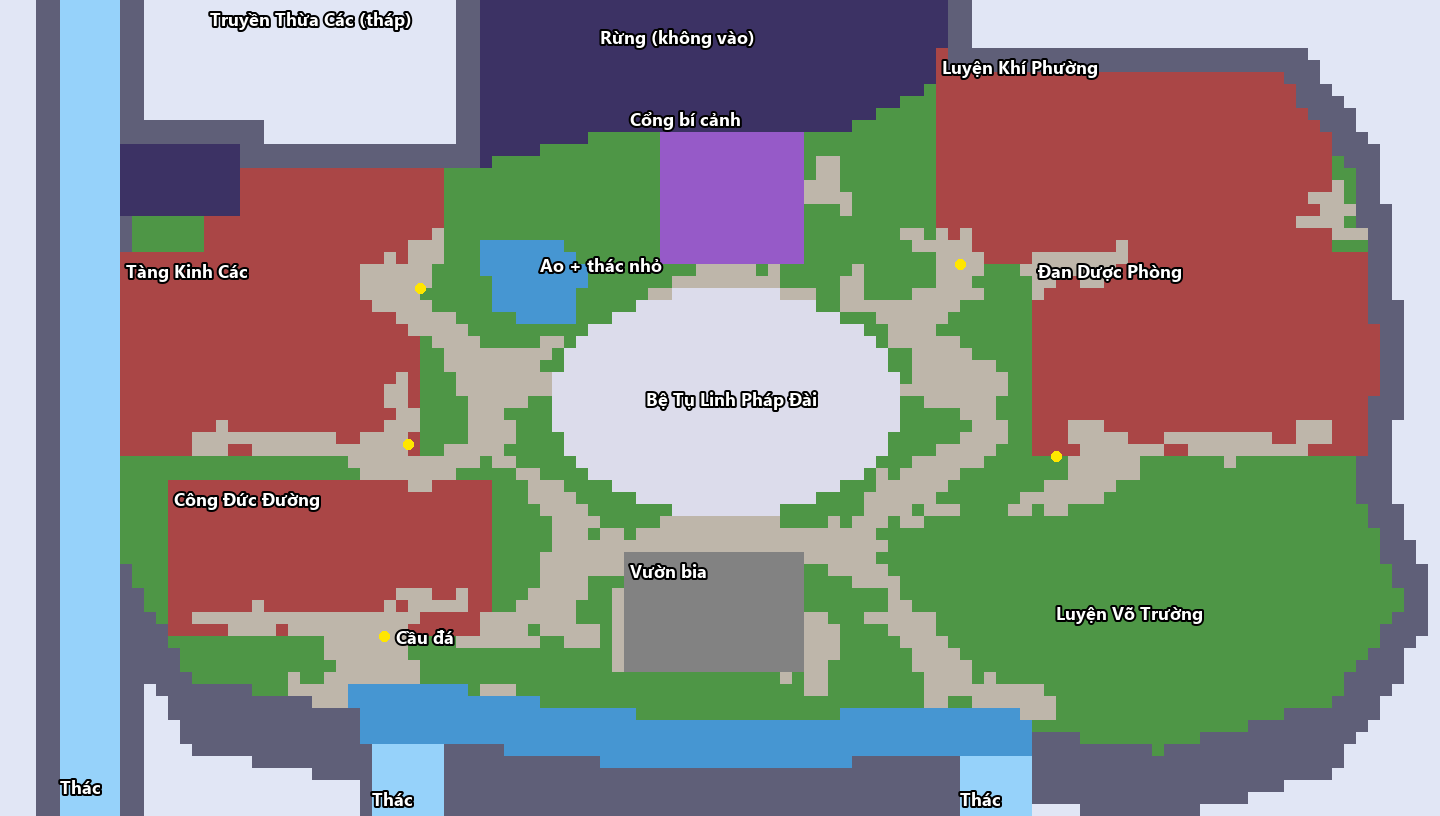
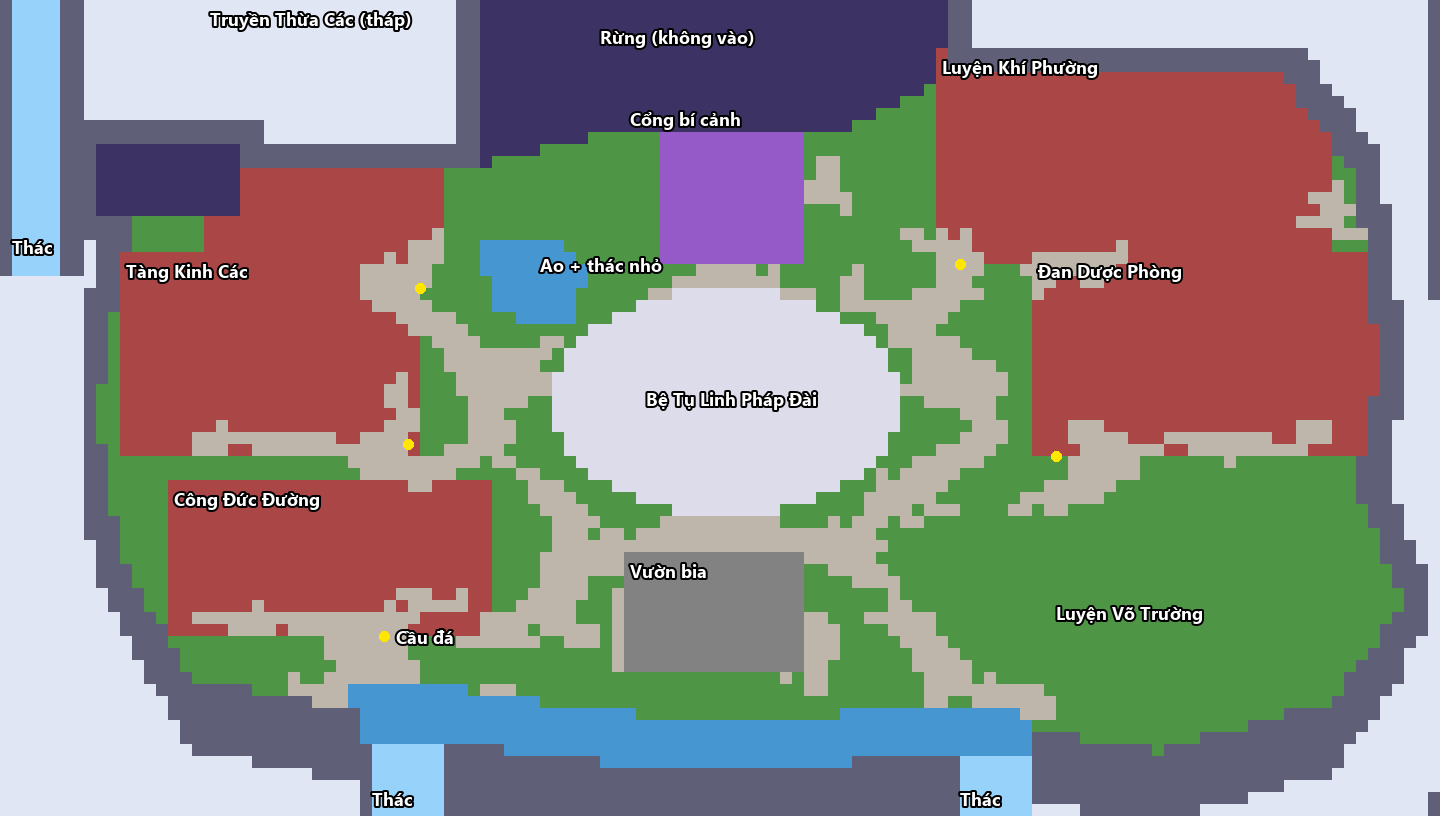
M8: thac tay ra mep ngoai, ngan lai, chan thac chim vao suong day

Changed region(s): [[0.0, 0.0, 0.125, 1.0], [0.9688, 0.0, 1.0, 0.3676], [0.9688, 0.9804, 1.0, 1.0]]

diff --git a/src/data/sect_bocuc.js b/src/data/sect_bocuc.js
@@ -1,3 +1,3 @@
 // SINH TỰ ĐỘNG bởi tools/sect_bo_cuc.py — bố cục sảnh theo concept ảnh 1 (lưới ô). Đừng sửa tay.
 // . cỏ, = đường đá, ~ nước, d sân đất, ^ vách núi, T rừng, B chỗ công trình, P bệ, G cổng, X mây, b vườn bia, W thác
-export const BOCUC = {"nx": 120, "ny": 68, "rows": ["XXX^^WWWWW^^XXXXXXXXXXXXXXXXXXXXXXXXXX^^TTTTTTTTTTTTTTTTTTTTTTTTTTTTTTTTTTTTTTT^^XXXXXXXXXXXXXXXXXXXXXXXXXXXXXXXXXXXXXXX", "XXX^^WWWWW^^XXXXXXXXXXXXXXXXXXXXXXXXXX^^TTTTTTTTTTTTTTTTTTTTTTTTTTTTTTTTTTTTTTT^^XXXXXXXXXXXXXXXXXXXXXXXXXXXXXXXXXXXXXXX", "XXX^^WWWWW^^XXXXXXXXXXXXXXXXXXXXXXXXXX^^TTTTTTTTTTTTTTTTTTTTTTTTTTTTTTTTTTTTTTT^^XXXXXXXXXXXXXXXXXXXXXXXXXXXXXXXXXXXXXXX", "XXX^^WWWWW^^XXXXXXXXXXXXXXXXXXXXXXXXXX^^TTTTTTTTTTTTTTTTTTTTTTTTTTTTTTTTTTTTTTT^^XXXXXXXXXXXXXXXXXXXXXXXXXXXXXXXXXXXXXXX", "XXX^^WWWWW^^XXXXXXXXXXXXXXXXXXXXXXXXXX^^TTTTTTTTTTTTTTTTTTTTTTTTTTTTTTTTTTTTTTB^^^^^^^^^^^^^^^^^^^^^^^^^^^^^^XXXXXXXXXXX", "XXX^^WWWWW^^XXXXXXXXXXXXXXXXXXXXXXXXXX^^TTTTTTTTTTTTTTTTTTTTTTTTTTTTTTTTTTTTTTB^^^^^^^^^^^^^^^^^^^^^^^^^^^^^^^XXXXXXXXXX", "XXX^^WWWWW^^XXXXXXXXXXXXXXXXXXXXXXXXXX^^TTTTTTTTTTTTTTTTTTTTTTTTTTTTTTTTTTTTTTBBBBBBBBBBBBBBBBBBBBBBBBBBBBB^^^XXXXXXXXXX", "XXX^^WWWWW^^XXXXXXXXXXXXXXXXXXXXXXXXXX^^TTTTTTTTTTTTTTTTTTTTTTTTTTTTTTTTTTTTT.BBBBBBBBBBBBBBBBBBBBBBBBBBBBBB^^^XXXXXXXXX", "XXX^^WWWWW^^XXXXXXXXXXXXXXXXXXXXXXXXXX^^TTTTTTTTTTTTTTTTTTTTTTTTTTTTTTTTTTT...BBBBBBBBBBBBBBBBBBBBBBBBBBBBBB^^^^XXXXXXXX", "XXX^^WWWWW^^XXXXXXXXXXXXXXXXXXXXXXXXXX^^TTTTTTTTTTTTTTTTTTTTTTTTTTTTTTTTT.....BBBBBBBBBBBBBBBBBBBBBBBBBBBBBBB^^^^XXXXXXX", "XXX^^WWWWW^^^^^^^^^^^^XXXXXXXXXXXXXXXX^^TTTTTTTTTTTTTTTTTTTTTTTTTTTTTTT.......BBBBBBBBBBBBBBBBBBBBBBBBBBBBBBBB^^^XXXXXXX", "XXX^^WWWWW^^^^^^^^^^^^XXXXXXXXXXXXXXXX^^TTTTTTTTT......GGGGGGGGGGGG...........BBBBBBBBBBBBBBBBBBBBBBBBBBBBBBBBB^^^XXXXXX", "XXX^^WWWWWTTTTTTTTTT^^^^^^^^^^^^^^^^^^^^TTTTT..........GGGGGGGGGGGG...........BBBBBBBBBBBBBBBBBBBBBBBBBBBBBBBBB^^^^XXXXX", "XXX^^WWWWWTTTTTTTTTT^^^^^^^^^^^^^^^^^^^^T..............GGGGGGGGGGGG.==........BBBBBBBBBBBBBBBBBBBBBBBBBBBBBBBBB.^^^XXXXX", "XXX^^WWWWWTTTTTTTTTTBBBBBBBBBBBBBBBBB..................GGGGGGGGGGGG.==........BBBBBBBBBBBBBBBBBBBBBBBBBBBBBBBBB..^^XXXXX", "XXX^^WWWWWTTTTTTTTTTBBBBBBBBBBBBBBBBB..................GGGGGGGGGGGG===........BBBBBBBBBBBBBBBBBBBBBBBBBBBBBBBBB=.^^XXXXX", "XXX^^WWWWWTTTTTTTTTTBBBBBBBBBBBBBBBBB..................GGGGGGGGGGGG====.......BBBBBBBBBBBBBBBBBBBBBBBBBBBBBBB===.^^XXXXX", "XXX^^WWWWWTTTTTTTTTTBBBBBBBBBBBBBBBBB..................GGGGGGGGGGGG...=.......BBBBBBBBBBBBBBBBBBBBBBBBBBBBBBBB===^^^XXXX", "XXX^^WWWWW^......BBBBBBBBBBBBBBBBBBBB..................GGGGGGGGGGGG...........BBBBBBBBBBBBBBBBBBBBBBBBBBBBBB====.^^^XXXX", "XXX^^WWWWW^......BBBBBBBBBBBBBBBBBBB=..................GGGGGGGGGGGG........==.=B=BBBBBBBBBBBBBBBBBBBBBBBBBBBBBB===^^XXXX", "XXX^^WWWWW^......BBBBBBBBBBBBBBBBB===...~~~~~~~........GGGGGGGGGGGG.........=====BBBBBBBBBBBB=BBBBBBBBBBBBBBBBB...^^XXXX", "XXX^^WWWWWBBBBBBBBBBBBBBBBBBBBBB=B===...~~~~~~~~.......GGGGGGGGGGGG...........====BBBB========BBBBBBBBBBBBBBBBBBBB^^XXXX", "XXX^^WWWWWBBBBBBBBBBBBBBBBBBBB======....~~~~~~~~~.........=====.=......=......====...========BBBBBBBBBBBBBBBBBBBBB^^XXXX", "XXX^^WWWWWBBBBBBBBBBBBBBBBBBBB======.....~~~~~~~~.......=========.....==......===.....==BB==BBBBBBBBBBBBBBBBBBBBBB^^XXXX", "XXX^^WWWWWBBBBBBBBBBBBBBBBBBBB=====......~~~~~~~......==PPPPPPPPP===..==....======....=BBBBBBBBBBBBBBBBBBBBBBBBBBB^^XXXX", "XXX^^WWWWWBBBBBBBBBBBBBBBBBBBBB=====.....~~~~~~~.....PPPPPPPPPPPPPPP..==========......BBBBBBBBBBBBBBBBBBBBBBBBBBBB^^^XXX", "XXX^^WWWWWBBBBBBBBBBBBBBBBBBBBBBB=====.....~~~~~...PPPPPPPPPPPPPPPPPPP...======.......BBBBBBBBBBBBBBBBBBBBBBBBBBBB^^^XXX", "XXX^^WWWWWBBBBBBBBBBBBBBBBBBBBBBBB=====..........PPPPPPPPPPPPPPPPPPPPPPP..====........BBBBBBBBBBBBBBBBBBBBBBBBBBBBB^^XXX", "XXX^^WWWWWBBBBBBBBBBBBBBBBBBBBBBBBB.====.....==.PPPPPPPPPPPPPPPPPPPPPPPPP.======......BBBBBBBBBBBBBBBBBBBBBBBBBBBBB^^XXX", "XXX^^WWWWWBBBBBBBBBBBBBBBBBBBBBBBBB..=========.PPPPPPPPPPPPPPPPPPPPPPPPPPP..=====.....BBBBBBBBBBBBBBBBBBBBBBBBBBBBB^^XXX", "XXX^^WWWWWBBBBBBBBBBBBBBBBBBBBBBBBB..========..PPPPPPPPPPPPPPPPPPPPPPPPPPP..=======...BBBBBBBBBBBBBBBBBBBBBBBBBBBBB^^XXX", "XXX^^WWWWWBBBBBBBBBBBBBBBBBBBBBBB=B...========PPPPPPPPPPPPPPPPPPPPPPPPPPPPP.========..BBBBBBBBBBBBBBBBBBBBBBBBBBBBB^^XXX", "XXX^^WWWWWBBBBBBBBBBBBBBBBBBBBBB==B...========PPPPPPPPPPPPPPPPPPPPPPPPPPPPP=========..BBBBBBBBBBBBBBBBBBBBBBBBBBBBB^^XXX", "XXX^^WWWWWBBBBBBBBBBBBBBBBBBBBBB==B....=====..PPPPPPPPPPPPPPPPPPPPPPPPPPPPP..======...BBBBBBBBBBBBBBBBBBBBBBBBBBBB^^^XXX", "XXX^^WWWWWBBBBBBBBBBBBBBBBBBBBBBB==....===....PPPPPPPPPPPPPPPPPPPPPPPPPPPPP.....===...BBBBBBBBBBBBBBBBBBBBBBBBBBBB^^^XXX", "XXX^^WWWWWBBBBBBBB=BBBBBBBBBBBBB===....====...PPPPPPPPPPPPPPPPPPPPPPPPPPPPP......===..BBB===BBBBBBBBBBBBBBBB===BBB^^XXXX", "XXX^^WWWWWBBBBBB============BB====B....====....PPPPPPPPPPPPPPPPPPPPPPPPPPP......====..BBB=====BBB=========BB===BBB^^XXXX", "XXX^^WWWWWBBBBBB===BB=============B..=====.....PPPPPPPPPPPPPPPPPPPPPPPPPPP....=====...BBBB=======BB==========BBBBB^^XXXX", "XXX^^WWWWW...................===========.==.....PPPPPPPPPPPPPPPPPPPPPPPPP...======.......======.......=..........^^^XXXX", "XXX^^WWWWW....................========.....==....PPPPPPPPPPPPPPPPPPPPPPP.=.=====.........======..................^^^XXXX", "XXX^^WWWWW....BBBBBBBBBBBBBBBBBBBB==BBBBB...===....PPPPPPPPPPPPPPPPPPP...======........======....................^^^XXXX", "XXX^^WWWWW....BBBBBBBBBBBBBBBBBBBBBBBBBBB...====.....PPPPPPPPPPPPPPP....======.......=======.....................^^^XXXX", "XXX^^WWWWW....BBBBBBBBBBBBBBBBBBBBBBBBBBB....====.......PPPPPPPPP.......====.===....==.==.........................^^^XXX", "XXX^^WWWWW....BBBBBBBBBBBBBBBBBBBBBBBBBBB.....====.....==========....=.===.==.....................................^^^XXX", "XXX^^WWWWW....BBBBBBBBBBBBBBBBBBBBBBBBBBB.....===.==.====================..........................................^^XXX", "XXX^^WWWWW....BBBBBBBBBBBBBBBBBBBBBBBBBBB.....============================.........................................^^^XX", "XXX^^WWWWW....BBBBBBBBBBBBBBBBBBBBBBBBBBB....=======bbbbbbbbbbbbbbb======..........................................^^^XX", "XXX^^WWWWW^...BBBBBBBBBBBBBBBBBBBBBBBBBBB....=======bbbbbbbbbbbbbbb..=====..........................................^^^X", "XXX^^WWWWW^...BBBBBBBBBBBBBBBBBBBBBBBBBBB....====...bbbbbbbbbbbbbbb....====.........................................^^^X", "XXX^^WWWWW^^..BBBBBBBBBBBBBBBBBBB===BB=BB...=====..=bbbbbbbbbbbbbbb.......=..........................................^^X", "XXX^^WWWWW^^..BBBBBBB=BBBBBBBBBB=B=====BB..=====...=bbbbbbbbbbbbbbb.......==.........................................^^X", "XXX^^WWWWW^^^.BB===================BBBBB========...=bbbbbbbbbbbbbbb==...======......................................^^^X", "XXX^^WWWWW^^^^BBBBB====B==========BBBBBB====.=====.=bbbbbbbbbbbbbbb===....====.....................................^^^^X", "XXX^^WWWWW^^^^.............=======....=======..===.=bbbbbbbbbbbbbbb===.....====....................................^^^XX", "XXX^^WWWWW^^^^^............=======.................=bbbbbbbbbbbbbbb===......====..................................^^^XXX", "XXX^^WWWWW^^^^^.............=======................=bbbbbbbbbbbbbbb==.......=====................................^^^^XXX", "XXX^^WWWWW^^^^^^........=..========..............................=.==........====.=.............................^^^^^XXX", "XXX^^WWWWW^^X^^^^^^^^...=====~~~~~~~~~~.===........................==........==========.........................^^^^XXXX", "XXX^^WWWWW^^XX^^^^^^^^^^^^===~~~~~~~~~~~~~~~~................................==..=======.......................^^^^XXXXX", "XXX^^WWWWW^^XX^^^^^^^^^^^^^^^^~~~~~~~~~~~~~~~~~~~~~~~.................~~~~~~~~~~~~~~~===...................^^^^^^^^XXXXX", "XXX^^WWWWW^^XXX^^^^^^^^^^^^^^^~~~~~~~~~~~~~~~~~~~~~~~~~~~~~~~~~~~~~~~~~~~~~~~~~~~~~~~~..................^^^^^^^^^^XXXXXX", "XXX^^WWWWW^^XXX^^^^^^^^^^^^^^^~~~~~~~~~~~~~~~~~~~~~~~~~~~~~~~~~~~~~~~~~~~~~~~~~~~~~~~~^^^^..........^^^^^^^^^^^^^XXXXXXX", "XXX^^WWWWW^^XXXX^^^^^^^^^^^^^^^WWWWWW^^^^^~~~~~~~~~~~~~~~~~~~~~~~~~~~~~~~~~~~~~~~~~~~~^^^^^^^^^^.^^^^^^^^^^^^^^^XXXXXXXX", "XXX^^WWWWW^^XXXXXXXXX^^^^^^^^^^WWWWWW^^^^^^^^^^^^^~~~~~~~~~~~~~~~~~~~~~^^^^^^^^^WWWWWW^^^^^^^^^^^^^^^^^^^^^^^^^^XXXXXXXX", "XXX^^WWWWW^^XXXXXXXXXXXXXX^^^^^WWWWWW^^^^^^^^^^^^^^^^^^^^^^^^^^^^^^^^^^^^^^^^^^^WWWWWW^^^^^^^^^^^^^^^^^^^^^^^^^XXXXXXXXX", "XXX^^WWWWW^^XXXXXXXXXXXXXXXXXX^WWWWWW^^^^^^^^^^^^^^^^^^^^^^^^^^^^^^^^^^^^^^^^^^^WWWWWW^^^^^^^^^^^^^^^^^^^^^XXXXXXXXXXXXX", "XXX^^WWWWW^^XXXXXXXXXXXXXXXXXX^WWWWWW^^^^^^^^^^^^^^^^^^^^^^^^^^^^^^^^^^^^^^^^^^^WWWWWW^^^^^^^^^^^^^^^^^^XXXXXXXXXXXXXXXX", "XXX^^WWWWW^^XXXXXXXXXXXXXXXXXX^WWWWWW^^^^^^^^^^^^^^^^^^^^^^^^^^^^^^^^^^^^^^^^^^^WWWWWWXXXX^^^^^^^^^^XXXXXXXXXXXXXXXXXXXX"], "buildings": {"truyen_thua": {"box": [17, 0, 36, 21], "foot": [35, 24], "name": "Truyền Thừa Các (tháp)"}, "tang_kinh": {"box": [10, 21, 34, 37], "foot": [34, 37], "name": "Tàng Kinh Các"}, "cong_duc": {"box": [14, 40, 40, 52], "foot": [32, 53], "name": "Công Đức Đường"}, "luyen_khi": {"box": [78, 4, 110, 21], "foot": [80, 22], "name": "Luyện Khí Phường"}, "dan_duoc": {"box": [86, 21, 114, 37], "foot": [88, 38], "name": "Đan Dược Phòng"}}, "plaza": {"c": [60.5, 33], "rx": 14, "ry": 9}, "gate": {"x": [55, 66], "y": [11, 21]}, "tf": {"c_old": [60.5, 33], "c": [60.5, 33], "sx": 1, "sy": 1}, "pen": {"x": 82, "y": 41, "w": 26, "h": 16, "gate": [83, 86], "door": [84.5, 40.2]}};
+export const BOCUC = {"nx": 120, "ny": 68, "rows": ["^WWWW^^XXXXXXXXXXXXXXXXXXXXXXXXXXXXXXX^^TTTTTTTTTTTTTTTTTTTTTTTTTTTTTTTTTTTTTTT^^XXXXXXXXXXXXXXXXXXXXXXXXXXXXXXXXXXXXXX^", "^WWWW^^XXXXXXXXXXXXXXXXXXXXXXXXXXXXXXX^^TTTTTTTTTTTTTTTTTTTTTTTTTTTTTTTTTTTTTTT^^XXXXXXXXXXXXXXXXXXXXXXXXXXXXXXXXXXXXXX^", "^WWWW^^XXXXXXXXXXXXXXXXXXXXXXXXXXXXXXX^^TTTTTTTTTTTTTTTTTTTTTTTTTTTTTTTTTTTTTTT^^XXXXXXXXXXXXXXXXXXXXXXXXXXXXXXXXXXXXXX^", "^WWWW^^XXXXXXXXXXXXXXXXXXXXXXXXXXXXXXX^^TTTTTTTTTTTTTTTTTTTTTTTTTTTTTTTTTTTTTTT^^XXXXXXXXXXXXXXXXXXXXXXXXXXXXXXXXXXXXXX^", "^WWWW^^XXXXXXXXXXXXXXXXXXXXXXXXXXXXXXX^^TTTTTTTTTTTTTTTTTTTTTTTTTTTTTTTTTTTTTTB^^^^^^^^^^^^^^^^^^^^^^^^^^^^^^XXXXXXXXXX^", "^WWWW^^XXXXXXXXXXXXXXXXXXXXXXXXXXXXXXX^^TTTTTTTTTTTTTTTTTTTTTTTTTTTTTTTTTTTTTTB^^^^^^^^^^^^^^^^^^^^^^^^^^^^^^^XXXXXXXXX^", "^WWWW^^XXXXXXXXXXXXXXXXXXXXXXXXXXXXXXX^^TTTTTTTTTTTTTTTTTTTTTTTTTTTTTTTTTTTTTTBBBBBBBBBBBBBBBBBBBBBBBBBBBBB^^^XXXXXXXXX^", "^WWWW^^XXXXXXXXXXXXXXXXXXXXXXXXXXXXXXX^^TTTTTTTTTTTTTTTTTTTTTTTTTTTTTTTTTTTTT.BBBBBBBBBBBBBBBBBBBBBBBBBBBBBB^^^XXXXXXXX^", "^WWWW^^XXXXXXXXXXXXXXXXXXXXXXXXXXXXXXX^^TTTTTTTTTTTTTTTTTTTTTTTTTTTTTTTTTTT...BBBBBBBBBBBBBBBBBBBBBBBBBBBBBB^^^^XXXXXXX^", "^WWWW^^XXXXXXXXXXXXXXXXXXXXXXXXXXXXXXX^^TTTTTTTTTTTTTTTTTTTTTTTTTTTTTTTTT.....BBBBBBBBBBBBBBBBBBBBBBBBBBBBBBB^^^^XXXXXX^", "^WWWW^^^^^^^^^^^^^^^^^XXXXXXXXXXXXXXXX^^TTTTTTTTTTTTTTTTTTTTTTTTTTTTTTT.......BBBBBBBBBBBBBBBBBBBBBBBBBBBBBBBB^^^XXXXXX^", "^WWWW^^^^^^^^^^^^^^^^^XXXXXXXXXXXXXXXX^^TTTTTTTTT......GGGGGGGGGGGG...........BBBBBBBBBBBBBBBBBBBBBBBBBBBBBBBBB^^^XXXXX^", "^WWWW^^^TTTTTTTTTTTT^^^^^^^^^^^^^^^^^^^^TTTTT..........GGGGGGGGGGGG...........BBBBBBBBBBBBBBBBBBBBBBBBBBBBBBBBB^^^^XXXX^", "^WWWW^^^TTTTTTTTTTTT^^^^^^^^^^^^^^^^^^^^T..............GGGGGGGGGGGG.==........BBBBBBBBBBBBBBBBBBBBBBBBBBBBBBBBB.^^^XXXX^", "^WWWW^^^TTTTTTTTTTTTBBBBBBBBBBBBBBBBB..................GGGGGGGGGGGG.==........BBBBBBBBBBBBBBBBBBBBBBBBBBBBBBBBB..^^XXXX^", "^WWWW^^^TTTTTTTTTTTTBBBBBBBBBBBBBBBBB..................GGGGGGGGGGGG===........BBBBBBBBBBBBBBBBBBBBBBBBBBBBBBBBB=.^^XXXX^", "^WWWW^^^TTTTTTTTTTTTBBBBBBBBBBBBBBBBB..................GGGGGGGGGGGG====.......BBBBBBBBBBBBBBBBBBBBBBBBBBBBBBB===.^^XXXX^", "^WWWW^^^TTTTTTTTTTTTBBBBBBBBBBBBBBBBB..................GGGGGGGGGGGG...=.......BBBBBBBBBBBBBBBBBBBBBBBBBBBBBBBB===^^^XXX^", "^WWWW^^^^^^......BBBBBBBBBBBBBBBBBBBB..................GGGGGGGGGGGG...........BBBBBBBBBBBBBBBBBBBBBBBBBBBBBB====.^^^XXX^", "^WWWW^^^^^^......BBBBBBBBBBBBBBBBBBB=..................GGGGGGGGGGGG........==.=B=BBBBBBBBBBBBBBBBBBBBBBBBBBBBBB===^^XXX^", "^WWWW^^X^^^......BBBBBBBBBBBBBBBBB===...~~~~~~~........GGGGGGGGGGGG.........=====BBBBBBBBBBBB=BBBBBBBBBBBBBBBBB...^^XXX^", "^WWWW^^X^^BBBBBBBBBBBBBBBBBBBBBB=B===...~~~~~~~~.......GGGGGGGGGGGG...........====BBBB========BBBBBBBBBBBBBBBBBBBB^^XXX^", "^WWWW^^X^^BBBBBBBBBBBBBBBBBBBB======....~~~~~~~~~.........=====.=......=......====...========BBBBBBBBBBBBBBBBBBBBB^^XXX^", "XXXXXXXX^^BBBBBBBBBBBBBBBBBBBB======.....~~~~~~~~.......=========.....==......===.....==BB==BBBBBBBBBBBBBBBBBBBBBB^^XXX^", "XXXXXXX^^^BBBBBBBBBBBBBBBBBBBB=====......~~~~~~~......==PPPPPPPPP===..==....======....=BBBBBBBBBBBBBBBBBBBBBBBBBBB^^XXX^", "XXXXXXX^^^BBBBBBBBBBBBBBBBBBBBB=====.....~~~~~~~.....PPPPPPPPPPPPPPP..==========......BBBBBBBBBBBBBBBBBBBBBBBBBBBB^^^XXX", "XXXXXXX^^.BBBBBBBBBBBBBBBBBBBBBBB=====.....~~~~~...PPPPPPPPPPPPPPPPPPP...======.......BBBBBBBBBBBBBBBBBBBBBBBBBBBB^^^XXX", "XXXXXXX^^.BBBBBBBBBBBBBBBBBBBBBBBB=====..........PPPPPPPPPPPPPPPPPPPPPPP..====........BBBBBBBBBBBBBBBBBBBBBBBBBBBBB^^XXX", "XXXXXXX^^.BBBBBBBBBBBBBBBBBBBBBBBBB.====.....==.PPPPPPPPPPPPPPPPPPPPPPPPP.======......BBBBBBBBBBBBBBBBBBBBBBBBBBBBB^^XXX", "XXXXXXX^^.BBBBBBBBBBBBBBBBBBBBBBBBB..=========.PPPPPPPPPPPPPPPPPPPPPPPPPPP..=====.....BBBBBBBBBBBBBBBBBBBBBBBBBBBBB^^XXX", "XXXXXXX^^.BBBBBBBBBBBBBBBBBBBBBBBBB..========..PPPPPPPPPPPPPPPPPPPPPPPPPPP..=======...BBBBBBBBBBBBBBBBBBBBBBBBBBBBB^^XXX", "XXXXXXX^^.BBBBBBBBBBBBBBBBBBBBBBB=B...========PPPPPPPPPPPPPPPPPPPPPPPPPPPPP.========..BBBBBBBBBBBBBBBBBBBBBBBBBBBBB^^XXX", "XXXXXXX^..BBBBBBBBBBBBBBBBBBBBBB==B...========PPPPPPPPPPPPPPPPPPPPPPPPPPPPP=========..BBBBBBBBBBBBBBBBBBBBBBBBBBBBB^^XXX", "XXXXXXX^..BBBBBBBBBBBBBBBBBBBBBB==B....=====..PPPPPPPPPPPPPPPPPPPPPPPPPPPPP..======...BBBBBBBBBBBBBBBBBBBBBBBBBBBB^^^XXX", "XXXXXXX^..BBBBBBBBBBBBBBBBBBBBBBB==....===....PPPPPPPPPPPPPPPPPPPPPPPPPPPPP.....===...BBBBBBBBBBBBBBBBBBBBBBBBBBBB^^^XXX", "XXXXXXX^..BBBBBBBB=BBBBBBBBBBBBB===....====...PPPPPPPPPPPPPPPPPPPPPPPPPPPPP......===..BBB===BBBBBBBBBBBBBBBB===BBB^^XXXX", "XXXXXXX^..BBBBBB============BB====B....====....PPPPPPPPPPPPPPPPPPPPPPPPPPP......====..BBB=====BBB=========BB===BBB^^XXXX", "XXXXXXX^^.BBBBBB===BB=============B..=====.....PPPPPPPPPPPPPPPPPPPPPPPPPPP....=====...BBBB=======BB==========BBBBB^^XXXX", "XXXXXXX^^....................===========.==.....PPPPPPPPPPPPPPPPPPPPPPPPP...======.......======.......=..........^^^XXXX", "XXXXXXX^^.....................========.....==....PPPPPPPPPPPPPPPPPPPPPPP.=.=====.........======..................^^^XXXX", "XXXXXXX^^.....BBBBBBBBBBBBBBBBBBBB==BBBBB...===....PPPPPPPPPPPPPPPPPPP...======........======....................^^^XXXX", "XXXXXXX^^.....BBBBBBBBBBBBBBBBBBBBBBBBBBB...====.....PPPPPPPPPPPPPPP....======.......=======.....................^^^XXXX", "XXXXXXX^^.....BBBBBBBBBBBBBBBBBBBBBBBBBBB....====.......PPPPPPPPP.......====.===....==.==.........................^^^XXX", "XXXXXXX^^^....BBBBBBBBBBBBBBBBBBBBBBBBBBB.....====.....==========....=.===.==.....................................^^^XXX", "XXXXXXX^^^....BBBBBBBBBBBBBBBBBBBBBBBBBBB.....===.==.====================..........................................^^XXX", "XXXXXXXX^^....BBBBBBBBBBBBBBBBBBBBBBBBBBB.....============================.........................................^^^XX", "XXXXXXXX^^....BBBBBBBBBBBBBBBBBBBBBBBBBBB....=======bbbbbbbbbbbbbbb======..........................................^^^XX", "XXXXXXXX^^^...BBBBBBBBBBBBBBBBBBBBBBBBBBB....=======bbbbbbbbbbbbbbb..=====..........................................^^^X", "XXXXXXXX^^^...BBBBBBBBBBBBBBBBBBBBBBBBBBB....====...bbbbbbbbbbbbbbb....====.........................................^^^X", "XXXXXXXXX^^^..BBBBBBBBBBBBBBBBBBB===BB=BB...=====..=bbbbbbbbbbbbbbb.......=..........................................^^X", "XXXXXXXXX^^^..BBBBBBB=BBBBBBBBBB=B=====BB..=====...=bbbbbbbbbbbbbbb.......==.........................................^^X", "XXXXXXXXXX^^^.BB===================BBBBB========...=bbbbbbbbbbbbbbb==...======......................................^^^X", "XXXXXXXXXX^^^^BBBBB====B==========BBBBBB====.=====.=bbbbbbbbbbbbbbb===....====.....................................^^^^X", "XXXXXXXXXXX^^^.............=======....=======..===.=bbbbbbbbbbbbbbb===.....====....................................^^^XX", "XXXXXXXXXXX^^^^............=======.................=bbbbbbbbbbbbbbb===......====..................................^^^XXX", "XXXXXXXXXXXX^^^.............=======................=bbbbbbbbbbbbbbb==.......=====................................^^^^XXX", "XXXXXXXXXXXX^^^^........=..========..............................=.==........====.=.............................^^^^^XXX", "XXXXXXXXXXXXX^^^^^^^^...=====~~~~~~~~~~.===........................==........==========.........................^^^^XXXX", "XXXXXXXXXXXXXX^^^^^^^^^^^^===~~~~~~~~~~~~~~~~................................==..=======.......................^^^^XXXXX", "XXXXXXXXXXXXXX^^^^^^^^^^^^^^^^~~~~~~~~~~~~~~~~~~~~~~~.................~~~~~~~~~~~~~~~===...................^^^^^^^^XXXXX", "XXXXXXXXXXXXXXX^^^^^^^^^^^^^^^~~~~~~~~~~~~~~~~~~~~~~~~~~~~~~~~~~~~~~~~~~~~~~~~~~~~~~~~..................^^^^^^^^^^XXXXXX", "XXXXXXXXXXXXXXX^^^^^^^^^^^^^^^~~~~~~~~~~~~~~~~~~~~~~~~~~~~~~~~~~~~~~~~~~~~~~~~~~~~~~~~^^^^..........^^^^^^^^^^^^^XXXXXXX", "XXXXXXXXXXXXXXXX^^^^^^^^^^^^^^^WWWWWW^^^^^~~~~~~~~~~~~~~~~~~~~~~~~~~~~~~~~~~~~~~~~~~~~^^^^^^^^^^.^^^^^^^^^^^^^^^XXXXXXXX", "XXXXXXXXXXXXXXXXXXXXX^^^^^^^^^^WWWWWW^^^^^^^^^^^^^~~~~~~~~~~~~~~~~~~~~~^^^^^^^^^WWWWWW^^^^^^^^^^^^^^^^^^^^^^^^^^XXXXXXXX", "XXXXXXXXXXXXXXXXXXXXXXXXXX^^^^^WWWWWW^^^^^^^^^^^^^^^^^^^^^^^^^^^^^^^^^^^^^^^^^^^WWWWWW^^^^^^^^^^^^^^^^^^^^^^^^^XXXXXXXXX", "XXXXXXXXXXXXXXXXXXXXXXXXXXXXXX^WWWWWW^^^^^^^^^^^^^^^^^^^^^^^^^^^^^^^^^^^^^^^^^^^WWWWWW^^^^^^^^^^^^^^^^^^^^^XXXXXXXXXXXXX", "XXXXXXXXXXXXXXXXXXXXXXXXXXXXXX^WWWWWW^^^^^^^^^^^^^^^^^^^^^^^^^^^^^^^^^^^^^^^^^^^WWWWWW^^^^^^^^^^^^^^^^^^XXXXXXXXXXXXXXX^", "XXXXXXXXXXXXXXXXXXXXXXXXXXXXXX^WWWWWW^^^^^^^^^^^^^^^^^^^^^^^^^^^^^^^^^^^^^^^^^^^WWWWWWXXXX^^^^^^^^^^XXXXXXXXXXXXXXXXXXX^"], "buildings": {"truyen_thua": {"box": [17, 0, 36, 21], "foot": [35, 24], "name": "Truyền Thừa Các (tháp)"}, "tang_kinh": {"box": [10, 21, 34, 37], "foot": [34, 37], "name": "Tàng Kinh Các"}, "cong_duc": {"box": [14, 40, 40, 52], "foot": [32, 53], "name": "Công Đức Đường"}, "luyen_khi": {"box": [78, 4, 110, 21], "foot": [80, 22], "name": "Luyện Khí Phường"}, "dan_duoc": {"box": [86, 21, 114, 37], "foot": [88, 38], "name": "Đan Dược Phòng"}}, "plaza": {"c": [60.5, 33], "rx": 14, "ry": 9}, "gate": {"x": [55, 66], "y": [11, 21]}, "tf": {"c_old": [60.5, 33], "c": [60.5, 33], "sx": 1, "sy": 1}, "pen": {"x": 82, "y": 41, "w": 26, "h": 16, "gate": [83, 86], "door": [84.5, 40.2]}};

diff --git a/src/render/render.js b/src/render/render.js
@@ -289,6 +289,29 @@ function drawFogFx(ctx, map, camX, camY, time) {
   g.drawImage(_fogM, tx0 * T - camX, ty0 * T - camY, tw * T, th * T);   // nội suy song tuyến: mép mờ dần ~1 ô
   g.globalCompositeOperation = 'source-over';
   ctx.drawImage(_fogC, camX, camY);
+  drawFallMist(ctx, map, camX, camY, time, img);
+}
+// (17/11) thác trời (chân thác lơ lửng trên biển mây): chân thác + vách tan dần vào một đụn sương dày, phập phồng -> như thác đổ mãi xuống dưới mây
+function drawFallMist(ctx, map, camX, camY, time, img) {
+  const tx0 = Math.floor(camX / T) - 6, ty0 = Math.floor(camY / T) - 3, tx1 = tx0 + Math.ceil(W / T) + 12, ty1 = ty0 + Math.ceil(H / T) + 6;
+  const sm = ctx.imageSmoothingEnabled; ctx.imageSmoothingEnabled = true;
+  for (let ty = ty0; ty <= ty1; ty++) for (let tx = tx0; tx <= tx1; tx++) {
+    if (map.tileAt(tx, ty) !== FALL || map.tileAt(tx, ty + 1) !== CLOUD || map.tileAt(tx - 1, ty) === FALL) continue;   // ô trái nhất của chân thác
+    let n = 1; while (map.tileAt(tx + n, ty) === FALL) n++;
+    const cx = tx * T + n * T / 2, yb = ty * T + T, wd = (n + 4) * T;
+    // nền sương dày, mép tan mềm (ảnh elip gradient): che hẳn chân thác + chân vách hai bên
+    for (const [dy, sx, sy, a] of [[-6, 1.25, 1.5, 0.95], [-20, 1.0, 1.2, 0.85], [6, 1.5, 1.3, 0.9]]) {
+      const w = wd * sx, h = 48 * sy; ctx.globalAlpha = a; ctx.drawImage(img, cx - w / 2, yb + dy - h / 2, w, h);
+    }
+    // đụn sương cuộn chậm phía trên
+    for (let k = 0; k < 5; k++) {
+      const h = hash(tx, k, 190), ph = time * (0.35 + h * 0.3) + h * 6.28, w = 60 + h * 40 + Math.sin(ph) * 8, hh = w * 0.45;
+      const x = cx + (k - 2) * (wd / 6) + Math.sin(ph * 0.7) * 6, y = yb - 14 - (k & 1) * 10 + Math.sin(ph) * 3;
+      ctx.globalAlpha = 0.5 + 0.3 * (0.5 + 0.5 * Math.sin(ph * 1.3)); ctx.drawImage(img, x - w / 2, y - hh / 2, w, hh);
+    }
+    ctx.globalAlpha = 1;
+  }
+  ctx.imageSmoothingEnabled = sm;
 }
 function fenceSpr() {
   if (_fence || typeof document === 'undefined') return _fence;
@@ -1194,7 +1217,7 @@ export function render(ctx, g) {
       for (let ty = ty0; ty <= ty0 + Math.ceil(H / T); ty++) for (let tx = tx0; tx <= tx0 + Math.ceil(W / T); tx++) {
         if (map.tileAt(tx, ty) !== FALL) continue;
         const x = tx * T, y = ty * T, off = Math.floor(time * 40) % 8;
-        if (VN) { const top = map.tileAt(tx, ty - 1) !== FALL, bot = map.tileAt(tx, ty + 1) !== FALL && ty < map.h - 1;   // thác bằng tileset: đỉnh / thân 4 khung / chân bọt
+        if (VN) { const top = map.tileAt(tx, ty - 1) !== FALL, bot = map.tileAt(tx, ty + 1) !== FALL && map.tileAt(tx, ty + 1) !== CLOUD && ty < map.h - 1;   // thác bằng tileset: đỉnh / thân 4 khung / chân bọt
           const id = 41 + (tx & 3), sx = (id & 7) * T, sy = (id >> 3) * T, o = Math.floor((time * 30 + hash(tx, 0, 77) * 16) % T);   // thân thác cuộn xuống liên tục 30 px/s (ô đã liền trên-dưới)
           if (o > 0) ctx.drawImage(VN, sx, sy + T - o, T, o, x, y, T, o);
           ctx.drawImage(VN, sx, sy, T, T - o, x, y + o, T, T - o);

diff --git a/tools/sect_bo_cuc.py b/tools/sect_bo_cuc.py
@@ -47,7 +47,7 @@ BUILDINGS = {
 }
 BIA = dict(box=(52, 46, 66, 55))
 BRIDGE = dict(box=(33, 54, 38, 60))
-FALLS = [(5, 0, 9, 67), (31, None, 36, 68), (80, None, 85, 68)]   # y0=None: thác bắt đầu ngay ô vách đầu tiên dưới nước suối (mép đá sỏi)   # thác trái (vách tây), thác dưới cầu, thác phải
+FALLS = [(1, 0, 4, 22), (31, None, 36, 68), (80, None, 85, 68)]   # y0=None: thác bắt đầu ngay ô vách đầu tiên dưới nước suối (mép đá sỏi)   # thác trái (vách tây), thác dưới cầu, thác phải
 F = {k: v['foot'] for k, v in BUILDINGS.items()}
 PATHS = []   # đường dò từ ảnh (trace_paths)
 
@@ -125,6 +125,11 @@ def build():
         if not (0 <= x < NX and 0 <= y < NY) or seen[y, x] or not walk[y, x]: continue
         seen[y, x] = True; st += [(x + 1, y), (x - 1, y), (x, y + 1), (x, y - 1)]
     g[walk & ~seen] = ord('^')
+    # (17/11) thác trời phía tây: cột đá riêng ngoài mép đảo, thác đổ từ trên cao rồi chìm vào sương (VFX) — bỏ vách dưới chân thác
+    x0, y0, x1, y1 = FALLS[0]
+    for y in range(y1 + 1, NY):
+        for x in range(max(0, x0 - 1), x1 + 3):
+            if g[y, x] == ord('^'): g[y, x] = ord('X')
     # (17/11) thác từ suối: mỗi cột đổ từ ngay dưới ô nước thấp nhất xuống đáy -> đỉnh thác khớp mép bờ, cùng dòng với suối
     for x0, y0, x1, y1 in FALLS:
         if y0 is not None: continue

diff --git a/TASKS_TU_TIEN_LO.md b/TASKS_TU_TIEN_LO.md
@@ -432,6 +432,7 @@ Thiết kế + backlog đầy đủ (ChatGPT, 13/11): **`docs/chatgpt_tong_mon_M
 - [x] (17/11) Thác dưới cầu/thác phải đổ tiếp qua mép dưới bản đồ (chạy qua camera, sương phủ phần treo trong mây); sen chỉ ở giữa mặt nước (các ô quanh và 2 ô phía trên đều là nước, tránh cầu đá — lá không lấn lên bờ); xoá viền tím (#FF00FF sót) quanh cây/đồ (`tools/clean_magenta.py` trên tm_cay_da, tm_chuong, tm_do_vat); rào chuồng đổ bóng. Test 209/209, chụp kiểm trong trình duyệt.
 - [x] (17/11) Ảnh toàn cảnh sảnh (`docs/playtest/M8_toan_canh_truoc.png` -> `M8_toan_canh.png`); trang trí thêm bãi cỏ trống: tre cạnh rừng/vách, bụi cây, cây tùng/tròn/hoa đào nhỏ ở rìa đông, đông bắc, tây, quanh cổng; khóm hoa, đá nhỏ; cánh hoa đào rơi theo gió quanh các cây hoa đào (VFX vẽ code, tắt khi chất lượng thấp). Test 209/209.
 - [x] (17/11) Thác tây đổ thẳng từ trên cao (qua mép trên bản đồ) xuống đáy; ô nước ngay trên đỉnh thác không vẽ góc bờ cỏ (thác không còn đè lên cỏ); sân đá quanh cổng bí cảnh nới ôm trọn bệ cổng (GATE 55–66 × 11–21). Test 209/209. Ảnh `docs/playtest/M8_thac_cong.png`
+- [x] (17/11) Thác tây thành "thác trời": dời ra mép ngoài (cột 1–4), rút ngắn (đổ từ trên mép bản đồ tới hàng 22), bỏ vách dưới chân; chân thác chìm vào đụn sương dày mép mềm, phập phồng (`drawFallMist`) như đổ mãi xuống dưới mây. Test 209/209. Ảnh `docs/playtest/M8_thac_troi.png`
 - [ ] M8-12 HUD, M8-14 cảm ứng, M8-16 save/regression, M8-17..18 playtest
 
 ---
